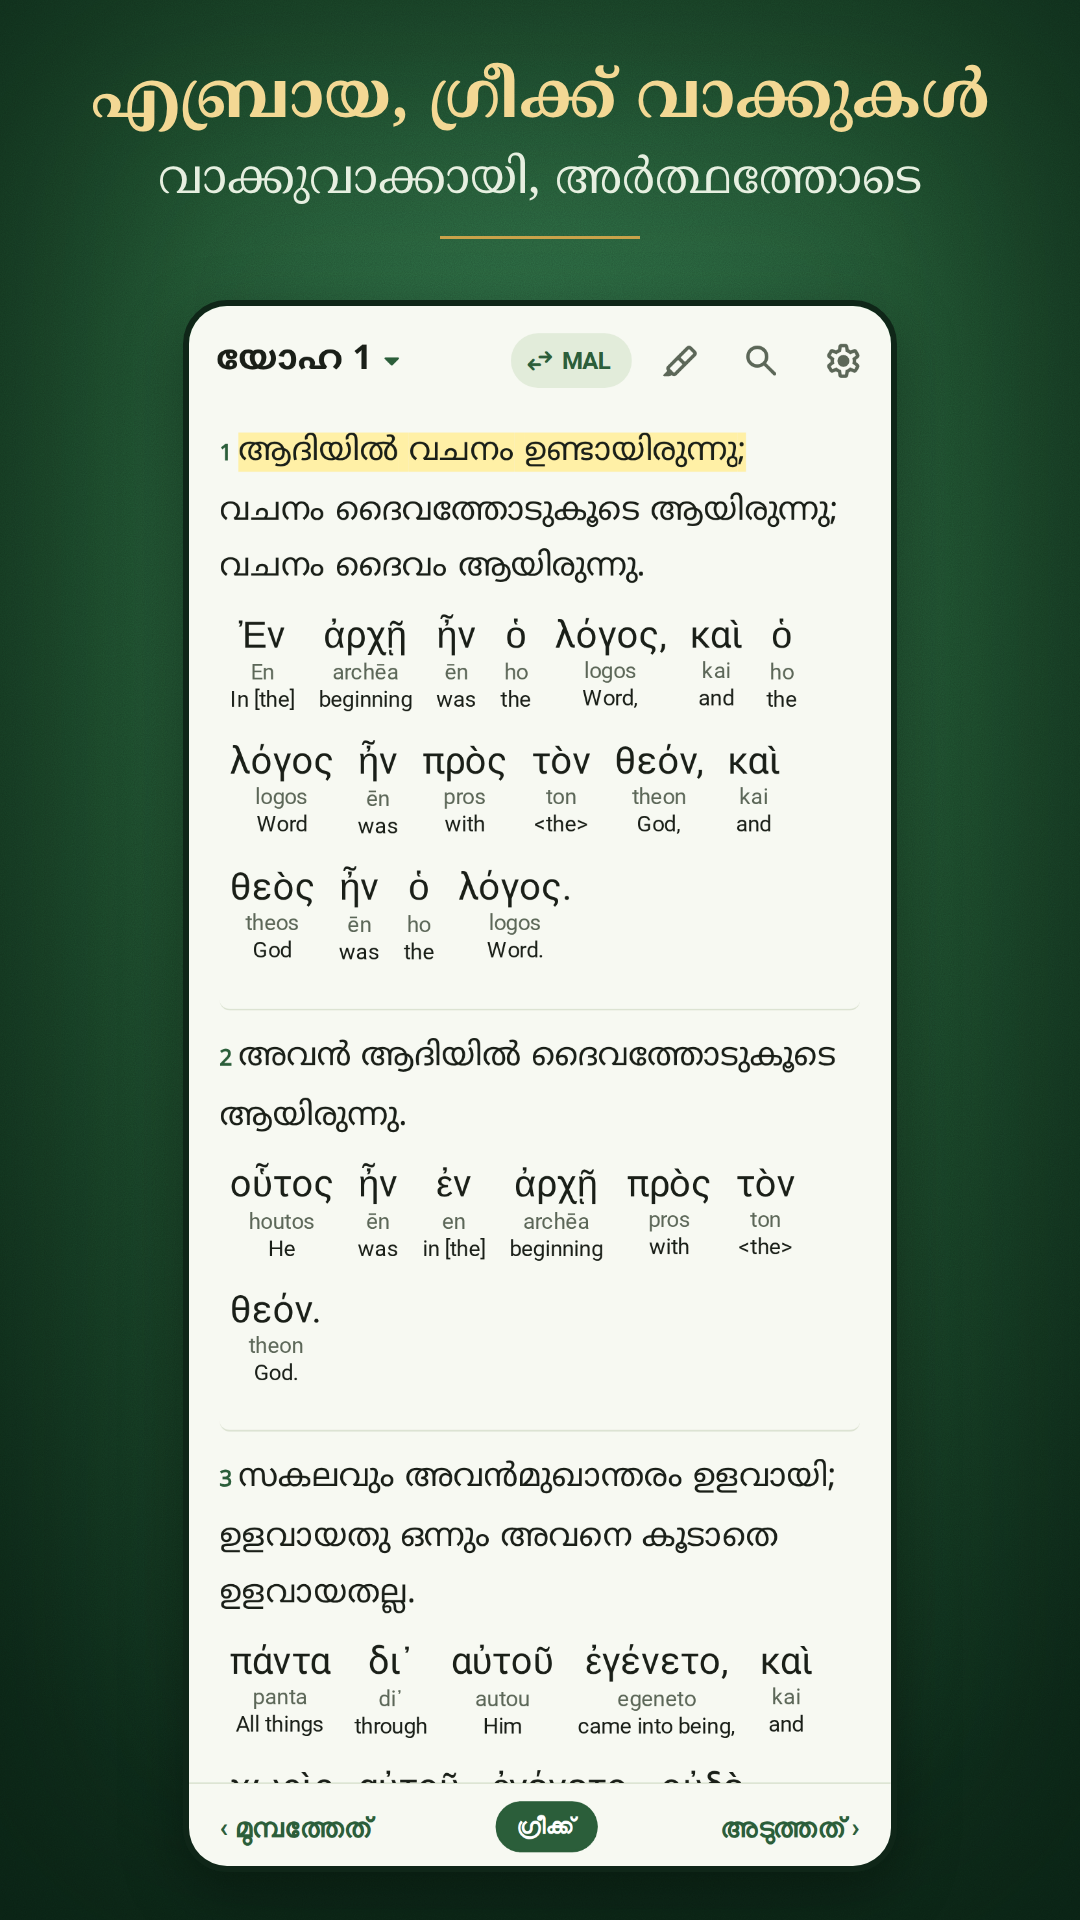
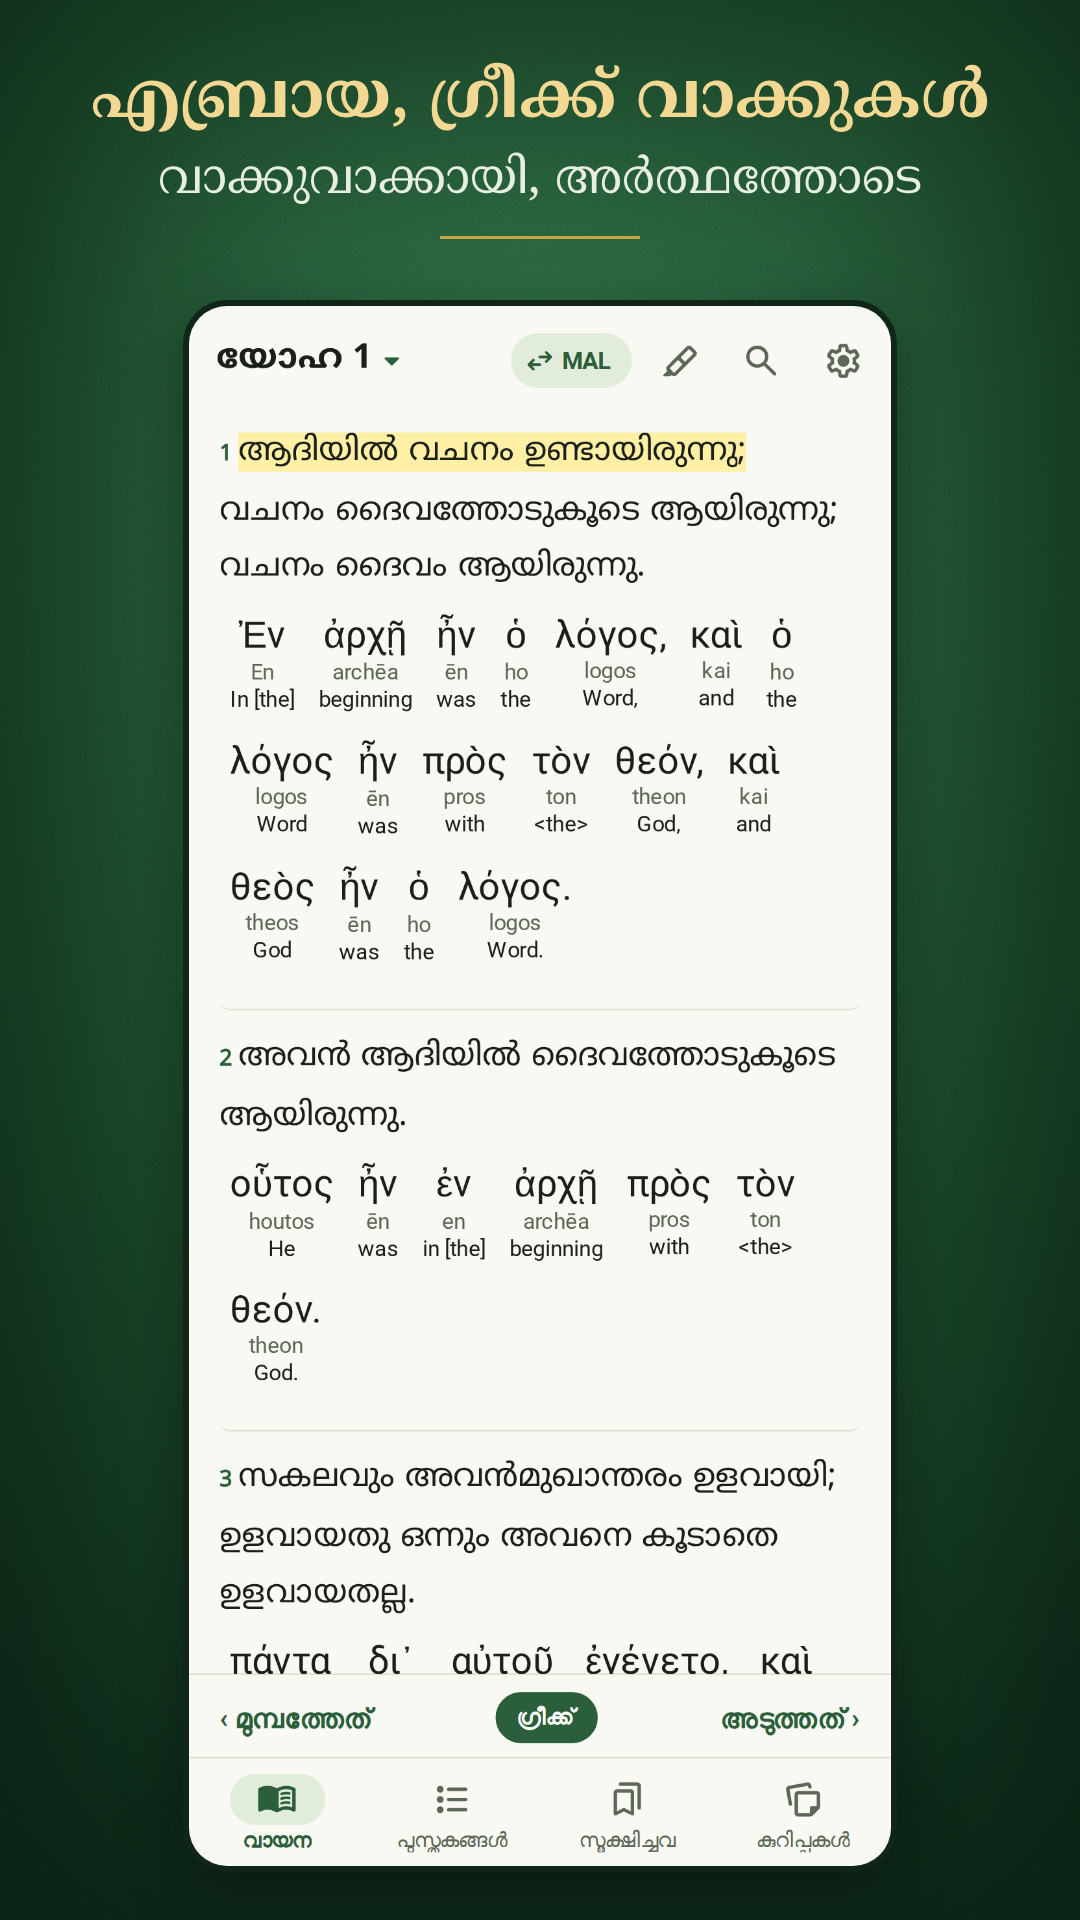
Play screenshots with the bottom tab bar; checklist points at 0.4.2 build 28
Claude-Session: https://claude.ai/code/session_01Kt8QQgS1XLBE3LTVGzDsDj

Changed region(s): [[0.3667, 0.875, 0.7944, 0.9688], [0.2139, 0.875, 0.3972, 0.9688]]

diff --git a/docs/play/README.md b/docs/play/README.md
@@ -23,7 +23,7 @@ Malayalam speaker to read it.
 - [ ] Upload `privacy-policy.html` (Rivers Research LLC, dond@riversresearch.org) to
       riversresearch.org, for example `https://riversresearch.org/bible/privacy`.
       Play needs the address to be public and stable.
-- [ ] Install the 0.4.1 APK from the `apk-builds` branch and use it for a while. Builds
+- [ ] Install the 0.4.2 APK from the `apk-builds` branch and use it for a while. Builds
       from 0.3.9 on have no internet, storage or overlay permissions.
 - [ ] Keep `credentials/bible-release.jks` and `credentials/signing.env` safe and backed
       up outside this machine. They are not in the repo. With Play App Signing this key
@@ -44,7 +44,7 @@ Malayalam speaker to read it.
 - [ ] When asked about app signing, choose **Use Google-generated key**. The bundle
       you upload is signed with your current release key, which Play records as the
       upload key.
-- [ ] Upload `Vedapusthakam-0.4.1-b27.aab` from the `apk-builds` branch.
+- [ ] Upload `Vedapusthakam-0.4.2-b28.aab` from the `apk-builds` branch.
 - [ ] Add yourself (and anyone helping) as internal testers, install from the test
       link, and check the app installed from Play works.
 
